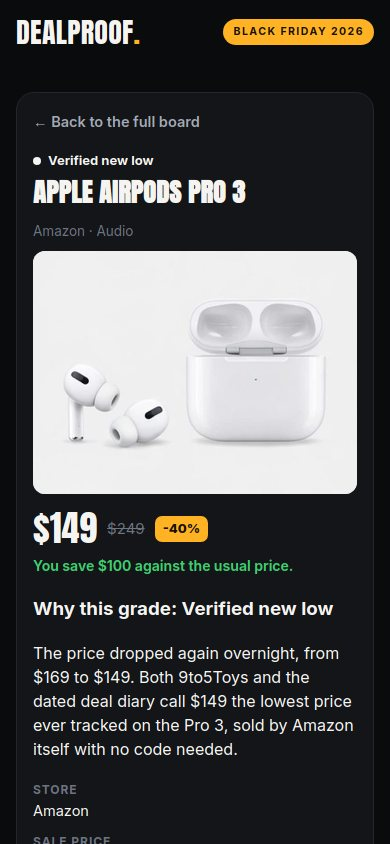
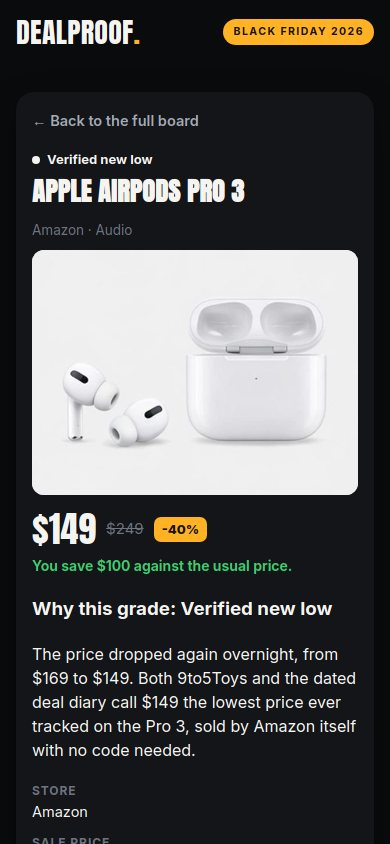
Remove divider lines, depth via shadow and tone

diff --git a/app/style.css b/app/style.css
@@ -94,18 +94,14 @@ a:focus-visible, button:focus-visible, input:focus-visible, select:focus-visible
 .controls > .menu-row,
 .controls > .result-count {
   background: var(--panel);
-  border-left: 1px solid var(--line);
-  border-right: 1px solid var(--line);
   padding-left: 16px;
   padding-right: 16px;
 }
 .controls > .control-row {
-  border-top: 1px solid var(--line);
   border-radius: 16px 16px 0 0;
   padding-top: 16px;
 }
 .controls > .result-count {
-  border-bottom: 1px solid var(--line);
   border-radius: 0 0 16px 16px;
   padding-bottom: 14px;
 }
@@ -167,7 +163,7 @@ a:focus-visible, button:focus-visible, input:focus-visible, select:focus-visible
   grid-template-columns: repeat(4, 1fr);
   gap: 18px;
 }
-.stat { border-top: 2px solid var(--amber); padding-top: 9px; }
+.stat { padding-top: 9px; }
 .stat-num {
   display: block;
   font-family: "Anton", "Inter", sans-serif;
@@ -200,7 +196,6 @@ a:focus-visible, button:focus-visible, input:focus-visible, select:focus-visible
   align-items: center;
   gap: 12px;
   padding: 9px 8px;
-  border-bottom: 1px solid var(--line);
   border-radius: 8px;
 }
 .top5-row:hover { background: var(--panel); }
@@ -235,14 +230,18 @@ a:focus-visible, button:focus-visible, input:focus-visible, select:focus-visible
   display: flex;
   flex-direction: column;
   height: 100%;
-  background: var(--panel);
-  border: 1px solid var(--line);
+  background: #17191f;
+  border: none;
   border-radius: 18px;
   padding: 14px;
   cursor: pointer;
-  transition: transform 0.15s ease, border-color 0.15s ease;
+  box-shadow: 0 1px 2px rgba(0, 0, 0, 0.35), 0 14px 34px rgba(0, 0, 0, 0.30);
+  transition: transform 0.15s ease, box-shadow 0.15s ease;
 }
-.card:hover { transform: translateY(-2px); border-color: var(--faint); }
+.card:hover {
+  transform: translateY(-2px);
+  box-shadow: 0 2px 3px rgba(0, 0, 0, 0.4), 0 20px 44px rgba(0, 0, 0, 0.38);
+}
 .card-media {
   border-radius: 12px;
   overflow: hidden;
@@ -341,7 +340,12 @@ a:focus-visible, button:focus-visible, input:focus-visible, select:focus-visible
   margin: 26px 0 6px;
 }
 .section-sub { color: var(--muted); font-size: 14.5px; margin: 0 0 6px; max-width: 720px; }
-.compare-row { padding: 14px 2px; border-bottom: 1px solid var(--line); }
+.compare-row {
+  background: var(--panel);
+  border-radius: 14px;
+  padding: 16px 18px 10px;
+  margin-bottom: 14px;
+}
 .compare-title { font-size: 16px; font-weight: 700; margin: 0 0 6px; }
 .compare-cells { display: block; }
 .compare-cell {
@@ -350,10 +354,9 @@ a:focus-visible, button:focus-visible, input:focus-visible, select:focus-visible
   grid-template-areas: "store prices link" "store meta link";
   column-gap: 12px;
   align-items: baseline;
-  padding: 9px 0;
-  border-top: 1px solid var(--line);
+  padding: 7px 0;
 }
-.compare-cell:first-child { border-top: none; padding-top: 2px; }
+.compare-cell:first-child { padding-top: 2px; }
 .compare-store { grid-area: store; font-size: 14px; font-weight: 700; }
 .compare-prices { grid-area: prices; display: inline-flex; gap: 9px; align-items: baseline; flex-wrap: wrap; }
 .compare-price { font-family: "Anton", "Inter", sans-serif; font-size: 20px; }
@@ -376,9 +379,10 @@ a:focus-visible, button:focus-visible, input:focus-visible, select:focus-visible
   max-width: 720px;
   margin: 6px auto 0;
   background: var(--panel);
-  border: 1px solid var(--line);
+  border: none;
   border-radius: 18px;
   padding: 20px 22px 24px;
+  box-shadow: 0 1px 2px rgba(0, 0, 0, 0.35), 0 14px 34px rgba(0, 0, 0, 0.30);
 }
 .back-link { font-size: 14.5px; font-weight: 600; color: var(--muted); text-decoration: none; display: inline-block; margin-bottom: 18px; }
 .back-link:hover { color: var(--ink); }
@@ -396,11 +400,10 @@ a:focus-visible, button:focus-visible, input:focus-visible, select:focus-visible
 .facts { display: grid; grid-template-columns: 130px 1fr; gap: 7px 16px; margin: 18px 0 4px; font-size: 14.5px; }
 .facts dt { color: var(--faint); font-size: 12px; font-weight: 700; text-transform: uppercase; letter-spacing: 0.08em; padding-top: 2px; }
 .facts dd { margin: 0; }
-.alt-box { border-top: 1px solid var(--line); margin-top: 16px; padding-top: 12px; }
+.alt-box { margin-top: 18px; }
 .alt-line { font-size: 14.5px; color: var(--muted); margin: 4px 0; }
 .alt-line a { color: var(--amber); font-weight: 650; text-decoration: none; }
 .seller-box {
-  border: 1px solid var(--line);
   background: var(--panel-2);
   border-radius: 14px;
   padding: 16px;
@@ -430,7 +433,6 @@ a:focus-visible, button:focus-visible, input:focus-visible, select:focus-visible
   max-width: 1120px;
   margin: 34px auto 0;
   padding: 18px 20px 42px;
-  border-top: 1px solid var(--line);
   color: var(--faint);
   font-size: 13.5px;
 }
